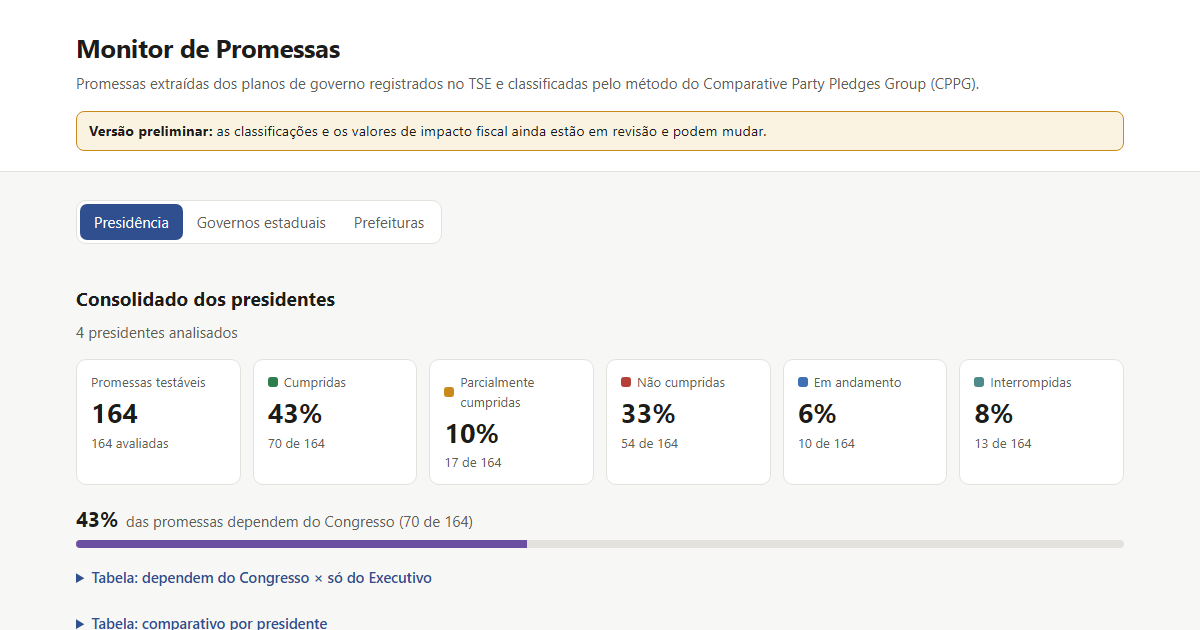
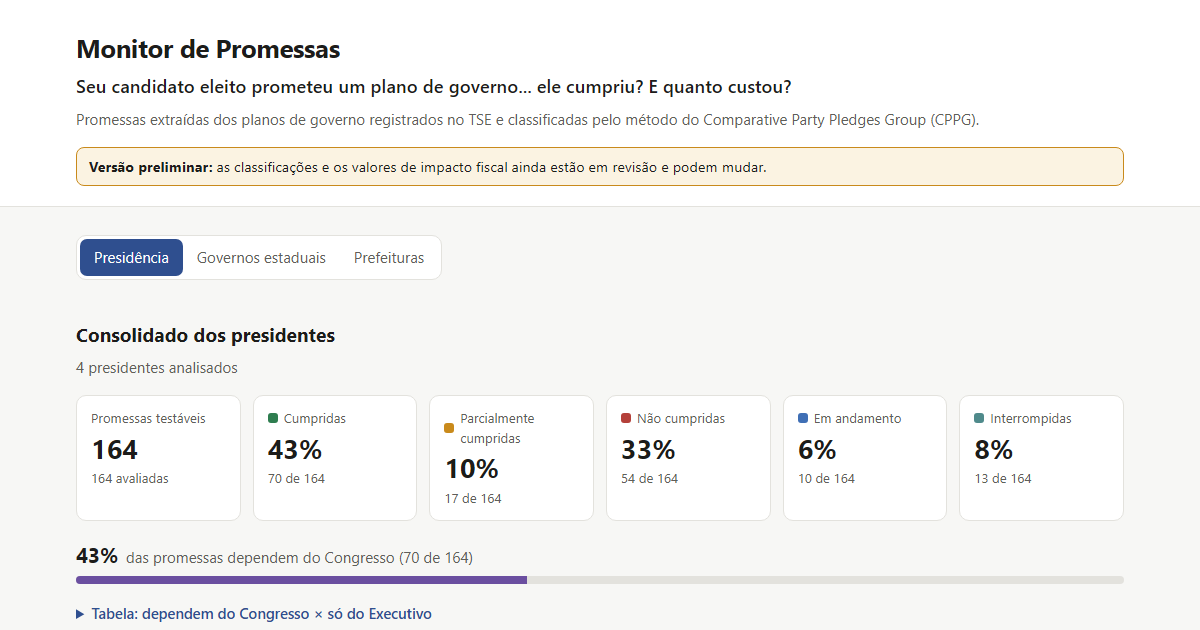
Subtítulo no topo e imagem de compartilhamento atualizada

diff --git a/docs/index.html b/docs/index.html
@@ -11,7 +11,7 @@
   <meta property="og:locale" content="pt_BR">
   <meta property="og:site_name" content="Monitor de Promessas">
   <meta property="og:title" content="Monitor de Promessas">
-  <meta property="og:description" content="Quantas promessas dos planos de governo foram cumpridas? Presidentes, governadores e prefeitos, promessa por promessa, com evidência e fonte.">
+  <meta property="og:description" content="Seu candidato eleito prometeu um plano de governo... ele cumpriu? E quanto custou? Presidentes, governadores e prefeitos, promessa por promessa, com evidência e fonte.">
   <meta property="og:url" content="https://promessas.afsm.me/">
   <meta property="og:image" content="https://promessas.afsm.me/compartilhar.png">
   <meta property="og:image:width" content="1200">
@@ -59,6 +59,7 @@
   <header class="topo">
     <div class="wrap">
       <h1>Monitor de Promessas</h1>
+      <p class="chamada">Seu candidato eleito prometeu um plano de governo... ele cumpriu? E quanto custou?</p>
       <p class="sub">Promessas extraídas dos planos de governo registrados no TSE e classificadas pelo método do Comparative Party Pledges Group (CPPG).</p>
       <p class="previa"><strong>Versão preliminar:</strong> as classificações e os valores de impacto fiscal ainda estão em revisão e podem mudar.</p>
     </div>

diff --git a/web/index.html b/web/index.html
@@ -11,7 +11,7 @@
   <meta property="og:locale" content="pt_BR">
   <meta property="og:site_name" content="Monitor de Promessas">
   <meta property="og:title" content="Monitor de Promessas">
-  <meta property="og:description" content="Quantas promessas dos planos de governo foram cumpridas? Presidentes, governadores e prefeitos, promessa por promessa, com evidência e fonte.">
+  <meta property="og:description" content="Seu candidato eleito prometeu um plano de governo... ele cumpriu? E quanto custou? Presidentes, governadores e prefeitos, promessa por promessa, com evidência e fonte.">
   <meta property="og:url" content="https://promessas.afsm.me/">
   <meta property="og:image" content="https://promessas.afsm.me/compartilhar.png">
   <meta property="og:image:width" content="1200">
@@ -59,6 +59,7 @@
   <header class="topo">
     <div class="wrap">
       <h1>Monitor de Promessas</h1>
+      <p class="chamada">Seu candidato eleito prometeu um plano de governo... ele cumpriu? E quanto custou?</p>
       <p class="sub">Promessas extraídas dos planos de governo registrados no TSE e classificadas pelo método do Comparative Party Pledges Group (CPPG).</p>
       <p class="previa"><strong>Versão preliminar:</strong> as classificações e os valores de impacto fiscal ainda estão em revisão e podem mudar.</p>
     </div>

diff --git a/docs/style.css b/docs/style.css
@@ -34,6 +34,7 @@ h3 { margin: 0; font-size: 1.1rem; }
 .previa { background: var(--aviso-bg); border: 1px solid var(--s-parcial); border-radius: 8px; padding: 8px 12px; margin: 0; font-size: 0.9rem; }
 .sub, .nota { color: var(--muted); margin: 0 0 16px; max-width: 70ch; }
 .topo .sub { max-width: none; }
+.chamada { font-size: 1.15rem; font-weight: 500; color: var(--text); margin: 4px 0 8px; }
 a { color: var(--accent); }
 code { font-size: 0.9em; }
 

diff --git a/web/style.css b/web/style.css
@@ -34,6 +34,7 @@ h3 { margin: 0; font-size: 1.1rem; }
 .previa { background: var(--aviso-bg); border: 1px solid var(--s-parcial); border-radius: 8px; padding: 8px 12px; margin: 0; font-size: 0.9rem; }
 .sub, .nota { color: var(--muted); margin: 0 0 16px; max-width: 70ch; }
 .topo .sub { max-width: none; }
+.chamada { font-size: 1.15rem; font-weight: 500; color: var(--text); margin: 4px 0 8px; }
 a { color: var(--accent); }
 code { font-size: 0.9em; }
 
